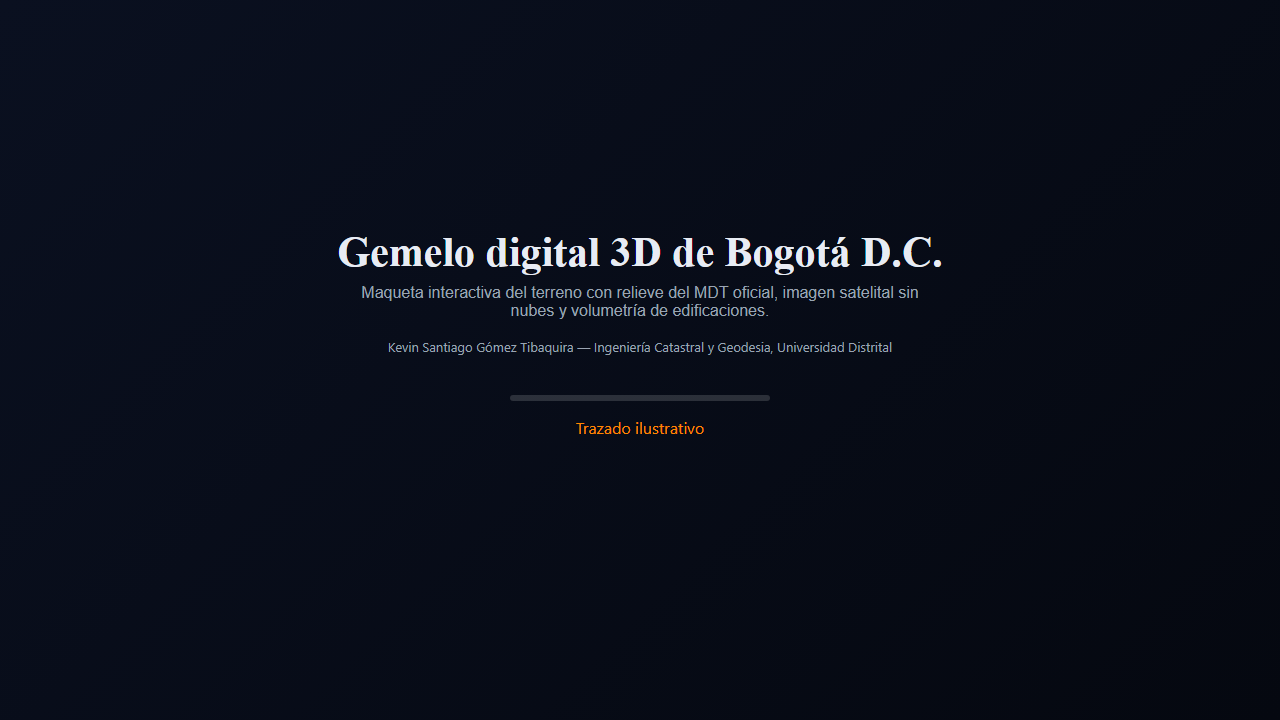
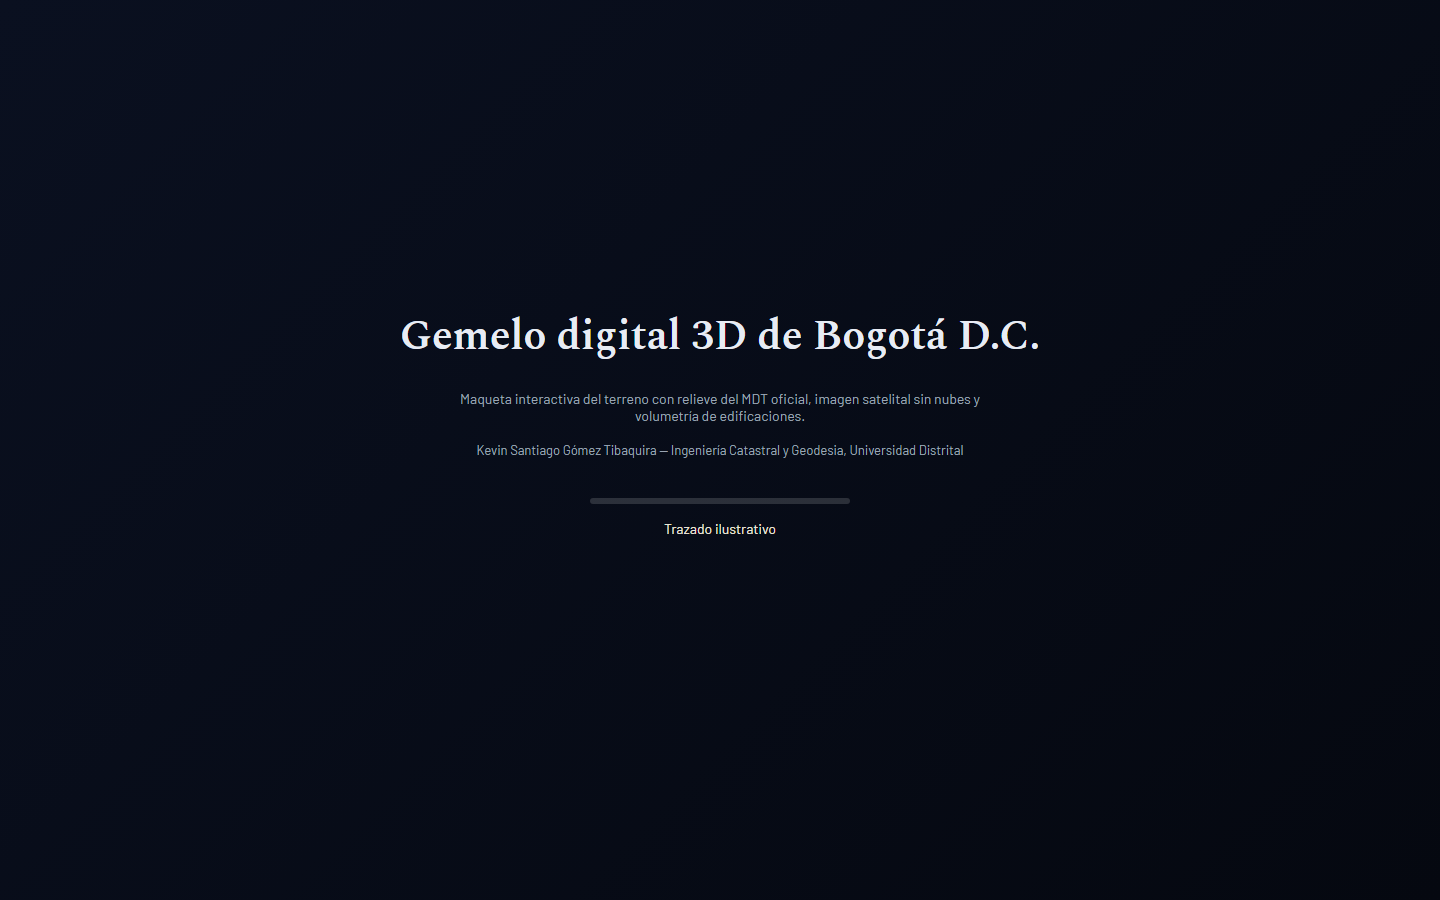
feat: interfaz premium con sistema de diseño, panel Mapa, toolbar, búsqueda, ficha y ayuda

Changed region(s): [[0.25, 0.3361, 0.7188, 0.5194], [0.4062, 0.55, 0.5938, 0.6111]]

diff --git a/docs/VERIFICACION.md b/docs/VERIFICACION.md
@@ -16,4 +16,4 @@
 | REQ-ORIENTACION | CRÍTICO | PASA | test_req_orientacion (tests.test_reqs.TestReqOrientacion.test_req_orientacion) ... ok  --------------------------------------------------------------- |
 | REQ-PUBLICACION | CRÍTICO | PASA | test_req_publicacion (tests.test_reqs.TestReqPublicacion.test_req_publicacion) ... ok  --------------------------------------------------------------- |
 | REQ-SOMBRAS | MEJORA | PASA | test_req_sombras (tests.test_reqs.TestReqSombras.test_req_sombras) ... ok  ---------------------------------------------------------------------- Ran  |
-| REQ-VISOR | CRÍTICO | PASA | test_smoke_page_loads (tests.test_visor.VisorSmokeTests.test_smoke_page_loads) ... 127.0.0.1 - - [07/Nov/2026 09:25:23] "GET / HTTP/1.1" 200 - C:\Prog |
+| REQ-VISOR | CRÍTICO | PASA | test_smoke_page_loads (tests.test_visor.VisorSmokeTests.test_smoke_page_loads) ... 127.0.0.1 - - [07/Nov/2026 09:31:53] "GET / HTTP/1.1" 200 - C:\Prog |
